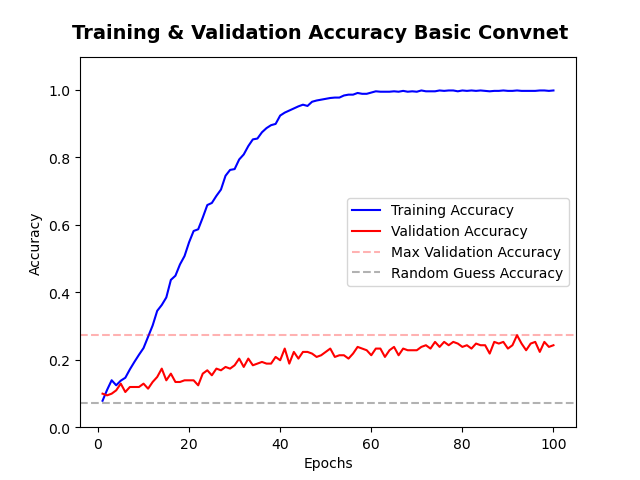
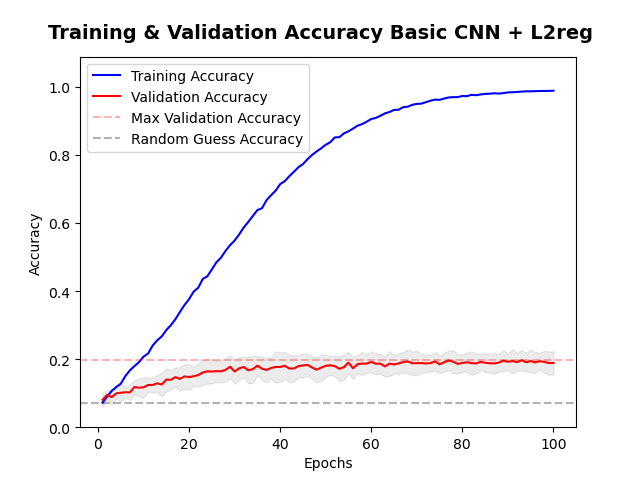
Figures Update

diff --git a/04_basic_convnet.py b/04_basic_convnet.py
@@ -123,7 +123,7 @@ epochs = list(range(1, len(loss_values)+1))
 
 #fig setup including twin axis
 fig, ax = plt.subplots()
-fig.suptitle('Training & Validation Loss Basic Dense Network', y=0.95, fontsize=14, fontweight='bold')
+fig.suptitle('Training & Validation Loss Basic CNN + L2reg', y=0.95, fontsize=14, fontweight='bold')
 
 #plotting training and validation loss
 ax.plot(epochs, metrics_dict['train_loss_mean'], 'b', label='Training Loss')
@@ -147,7 +147,7 @@ val_accuracy = history_dict['val_accuracy']
 
 #fig setup
 fig2, ax = plt.subplots()
-fig2.suptitle('Training & Validation Accuracy Basic Dense Network', y=0.95, fontsize=14, fontweight='bold')
+fig2.suptitle('Training & Validation Accuracy Basic CNN + L2reg', y=0.95, fontsize=14, fontweight='bold')
 
 #plotting training and validation accuracy
 ax.plot(epochs, metrics_dict['train_acc_mean'], 'b', label='Training Accuracy')
